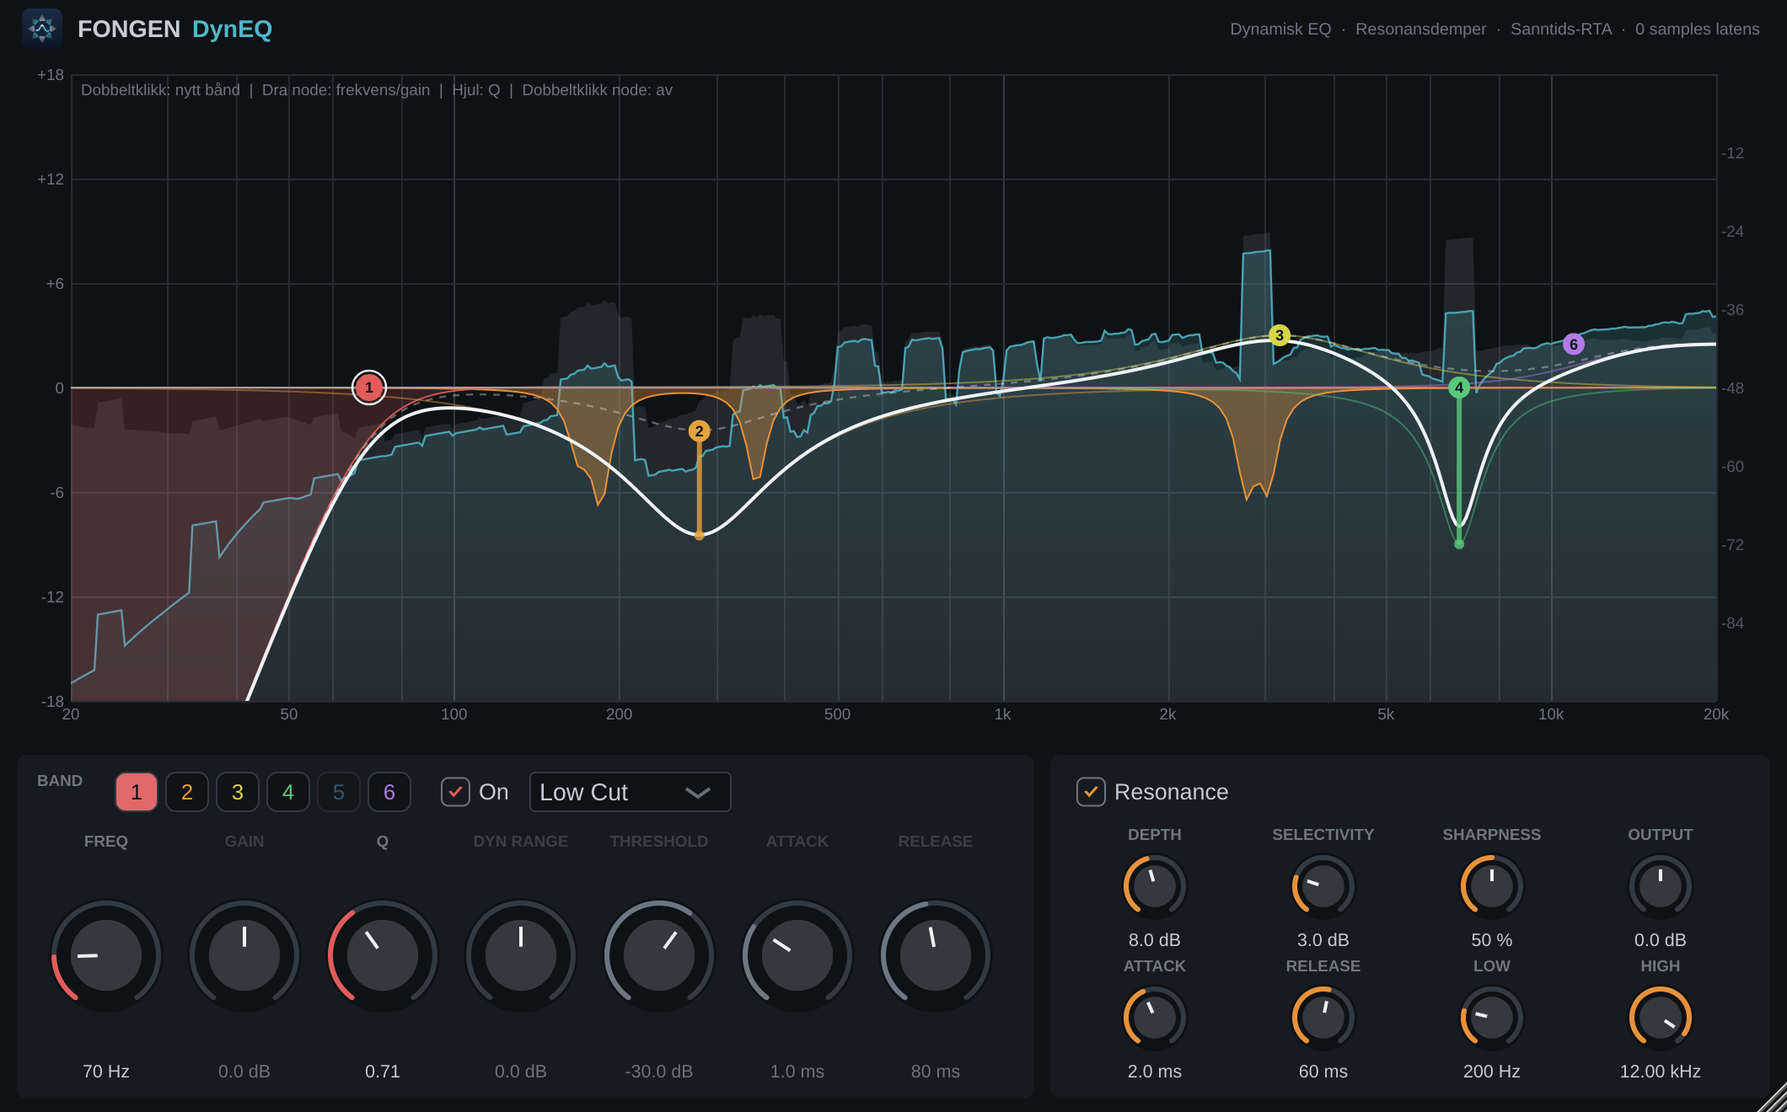
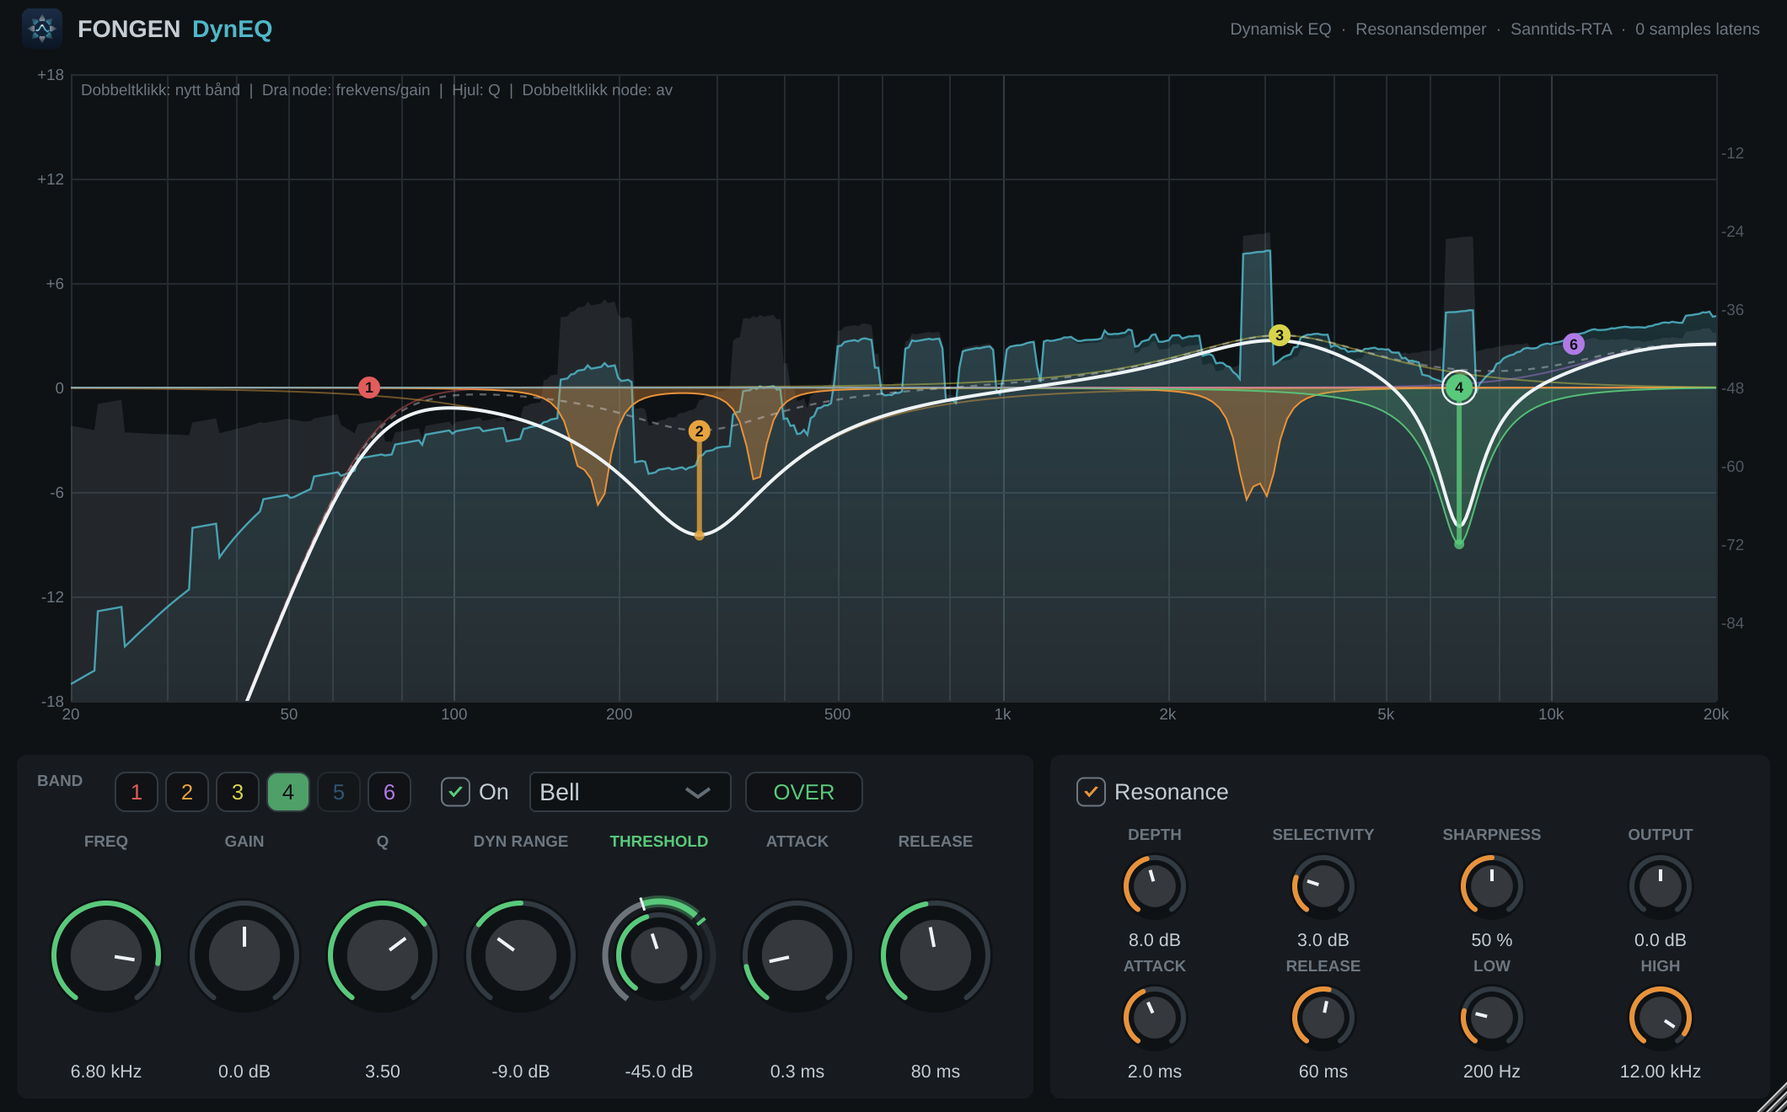
1.1.0: VU-ring rundt Threshold og Over/Under per bånd
- Detektornivået vises som en ring rundt Threshold, med terskelmerke og
  topphold. Delen der båndet reagerer lyser i båndets farge.
- Ny parameter per bånd: Over/Under. Under-modus reagerer når nivået er
  under terskelen (ekspansjon eller løft av svake partier).
- Detektoren kjører nå også for statiske bånd, så nivået kan leses før
  Dyn Range skrus opp.

Claude-Session: https://claude.ai/code/session_0122M8mVV8rMKfPfgbpjHn3K

diff --git a/Source/PluginEditor.cpp b/Source/PluginEditor.cpp
@@ -45,10 +45,59 @@ Label* FongenLookAndFeel::createSliderTextBox (Slider& s)
 void FongenLookAndFeel::drawRotarySlider (Graphics& g, int x, int y, int w, int h, float pos, float start, float end, Slider& s)
 {
     const auto bounds = Rectangle<float> ((float) x, (float) y, (float) w, (float) h).reduced (4);
-    const float r = jmin (bounds.getWidth(), bounds.getHeight()) * 0.5f;
+    const float outer = jmin (bounds.getWidth(), bounds.getHeight()) * 0.5f;
     const auto c = bounds.getCentre();
     const float angle = start + pos * (end - start);
     const auto fill = s.findColour (Slider::rotarySliderFillColourId);
+
+    // VU-ring: settes av editoren som egenskaper på slideren (nivå i samme enhet som slideren)
+    const auto& props = s.getProperties();
+    const bool hasVu = props.contains ("vuDb");
+    const float r = hasVu ? outer - 7.0f : outer;
+
+    if (hasVu)
+    {
+        const float ringR = outer - 2.0f;
+        auto toAngle = [&] (double v) { return start + (float) s.valueToProportionOfLength (jlimit (s.getMinimum(), s.getMaximum(), v)) * (end - start); };
+        const float level = (float) props["vuDb"], peak = (float) props.getWithDefault ("vuPeakDb", -120.0f);
+        const bool active = (bool) props.getWithDefault ("vuActive", true);
+        const bool under  = (bool) props.getWithDefault ("vuUnder", false);
+        const float thrA = angle;
+
+        Path bgRing; bgRing.addCentredArc (c.x, c.y, ringR, ringR, 0, start, end, true);
+        g.setColour (ui::grid);
+        g.strokePath (bgRing, PathStrokeType (3.5f, PathStrokeType::curved, PathStrokeType::butt));
+
+        if (level > s.getMinimum())
+        {
+            const float lvlA = toAngle (level);
+            // Nivået vises dempet. Delen mellom nivå og terskel lyser i båndets farge
+            // når båndet reagerer: over terskel i Over-modus, under terskel i Under-modus.
+            Path lvlArc; lvlArc.addCentredArc (c.x, c.y, ringR, ringR, 0, start, under ? lvlA : jmin (lvlA, thrA), true);
+            g.setColour (ui::text.withAlpha (s.isEnabled() ? 0.45f : 0.2f));
+            g.strokePath (lvlArc, PathStrokeType (3.5f, PathStrokeType::curved, PathStrokeType::butt));
+            const bool hitting = under ? lvlA < thrA : lvlA > thrA;
+            if (hitting)
+            {
+                Path hotArc; hotArc.addCentredArc (c.x, c.y, ringR, ringR, 0, jmin (lvlA, thrA), jmax (lvlA, thrA), true);
+                const auto hot = active ? fill : ui::text;
+                g.setColour (hot.withAlpha (0.35f));
+                g.strokePath (hotArc, PathStrokeType (7.0f, PathStrokeType::curved, PathStrokeType::butt));
+                g.setColour (hot);
+                g.strokePath (hotArc, PathStrokeType (3.5f, PathStrokeType::curved, PathStrokeType::butt));
+            }
+        }
+        if (peak > s.getMinimum())
+        {
+            // Topphold: liten strek på ringen
+            const float pa = toAngle (peak);
+            g.setColour (! under && peak > s.getValue() && active ? fill : ui::text.withAlpha (0.7f));
+            g.drawLine ({ c.getPointOnCircumference (ringR - 3.0f, pa), c.getPointOnCircumference (ringR + 3.0f, pa) }, 2.0f);
+        }
+        // Terskelmerke på ringen
+        g.setColour (ui::curve);
+        g.drawLine ({ c.getPointOnCircumference (ringR - 4.0f, thrA), c.getPointOnCircumference (ringR + 4.0f, thrA) }, 1.5f);
+    }
 
     g.setColour (ui::bg);
     g.fillEllipse (c.x - r, c.y - r, r * 2, r * 2);
@@ -503,6 +552,10 @@ FongenAudioProcessorEditor::FongenAudioProcessorEditor (FongenAudioProcessor& p)
     addAndMakeVisible (bandOn);
     bandType.addItemList ({ "Bell", "Low Shelf", "High Shelf", "Low Cut", "High Cut", "Notch" }, 1);
     addAndMakeVisible (bandType);
+    bandMode.setClickingTogglesState (true);
+    bandMode.setTooltip ("Over: båndet reagerer når nivået går over terskelen. Under: når nivået er under terskelen.");
+    bandMode.onStateChange = [this] { bandMode.setButtonText (bandMode.getToggleState() ? "UNDER" : "OVER"); };
+    addAndMakeVisible (bandMode);
 
     setupKnob (kFreq, "FREQ"); setupKnob (kGain, "GAIN"); setupKnob (kQ, "Q");
     setupKnob (kRange, "DYN RANGE"); setupKnob (kThresh, "THRESHOLD"); setupKnob (kAttack, "ATTACK"); setupKnob (kRelease, "RELEASE");
@@ -533,7 +586,7 @@ FongenAudioProcessorEditor::FongenAudioProcessorEditor (FongenAudioProcessor& p)
     setResizable (true, true);
     setResizeLimits (900, 580, 1800, 1100);
     setSize (1060, 660);
-    startTimerHz (10);
+    startTimerHz (30);
 }
 
 FongenAudioProcessorEditor::~FongenAudioProcessorEditor()
@@ -557,14 +610,17 @@ void FongenAudioProcessorEditor::setupKnob (Knob& k, const String& name)
 void FongenAudioProcessorEditor::selectBand (int b)
 {
     selected = b;
+    vuDisp = vuPeak = -120.0f; vuPeakHold = 0;
     bandButtons[b].setToggleState (true, dontSendNotification);
     display.setSelectedBand (b);
 
     // Koble kontrollene om til det valgte båndets parametere
-    bandOnAtt.reset(); bandTypeAtt.reset();
+    bandOnAtt.reset(); bandTypeAtt.reset(); bandModeAtt.reset();
     for (auto* k : { &kFreq, &kGain, &kQ, &kRange, &kThresh, &kAttack, &kRelease }) k->att.reset();
     bandOnAtt   = std::make_unique<ButtonAttachment> (proc.apvts, ids::band (b, ids::on), bandOn);
     bandTypeAtt = std::make_unique<ComboAttachment>  (proc.apvts, ids::band (b, ids::type), bandType);
+    bandModeAtt = std::make_unique<ButtonAttachment> (proc.apvts, ids::band (b, ids::mode), bandMode);
+    bandMode.setButtonText (bandMode.getToggleState() ? "UNDER" : "OVER");
     kFreq.att    = std::make_unique<SliderAttachment> (proc.apvts, ids::band (b, ids::freq), kFreq.slider);
     kGain.att    = std::make_unique<SliderAttachment> (proc.apvts, ids::band (b, ids::gain), kGain.slider);
     kQ.att       = std::make_unique<SliderAttachment> (proc.apvts, ids::band (b, ids::q), kQ.slider);
@@ -575,6 +631,10 @@ void FongenAudioProcessorEditor::selectBand (int b)
     for (auto* k : { &kFreq, &kGain, &kQ, &kRange, &kThresh, &kAttack, &kRelease })
         k->slider.setColour (Slider::rotarySliderFillColourId, ui::band (b));
     bandOn.setColour (ToggleButton::tickColourId, ui::band (b));
+    bandMode.setColour (TextButton::buttonColourId, ui::bg);
+    bandMode.setColour (TextButton::buttonOnColourId, ui::bg);
+    bandMode.setColour (TextButton::textColourOffId, ui::band (b));
+    bandMode.setColour (TextButton::textColourOnId, ui::band (b));
     timerCallback();
     repaint();
 }
@@ -587,6 +647,28 @@ void FongenAudioProcessorEditor::timerCallback()
     const auto type = (fongen::BandType) (int) proc.apvts.getRawParameterValue (ids::band (selected, ids::type))->load();
     const bool hasGain = type == fongen::BandType::Bell || type == fongen::BandType::LowShelf || type == fongen::BandType::HighShelf;
     for (auto* k : { &kGain, &kRange, &kThresh, &kAttack, &kRelease }) { k->slider.setEnabled (hasGain); k->label.setAlpha (hasGain ? 1.0f : 0.4f); }
+    bandMode.setEnabled (hasGain);
+    bandMode.setAlpha (hasGain ? 1.0f : 0.4f);
+
+    // VU-ring rundt Threshold: rask stigning, fall ca. 20 dB/s, topphold i 1,5 s
+    const bool bandIsOn = proc.apvts.getRawParameterValue (ids::band (selected, ids::on))->load() > 0.5f;
+    const float level = proc.bandLevelDb[(size_t) selected].exchange (-120.0f, std::memory_order_relaxed);
+    const float lvl = (bandIsOn && hasGain) ? level : -120.0f;
+    vuDisp = lvl > vuDisp ? lvl : jmax (lvl, vuDisp - 0.7f);
+    if (vuDisp >= vuPeak) { vuPeak = vuDisp; vuPeakHold = 45; }
+    else if (--vuPeakHold < 0) vuPeak = jmax (vuDisp, vuPeak - 0.7f);
+
+    auto& props = kThresh.slider.getProperties();
+    const bool rangeOn = std::abs (proc.apvts.getRawParameterValue (ids::band (selected, ids::range))->load()) > 0.01f;
+    props.set ("vuDb", vuDisp);
+    props.set ("vuPeakDb", vuPeak);
+    const bool under = bandMode.getToggleState();
+    props.set ("vuActive", rangeOn);
+    props.set ("vuUnder", under);
+    const float thr = (float) kThresh.slider.getValue();
+    const bool hit = rangeOn && (under ? vuDisp < thr : vuDisp > thr);
+    kThresh.label.setColour (Label::textColourId, hit ? ui::band (selected) : ui::dim);
+    kThresh.slider.repaint();
 }
 
 void FongenAudioProcessorEditor::paint (Graphics& g)
@@ -642,6 +724,8 @@ void FongenAudioProcessorEditor::resized()
     row.removeFromLeft (12);
     bandOn.setBounds (row.removeFromLeft (56));
     bandType.setBounds (row.removeFromLeft (120).reduced (0, 2));
+    row.removeFromLeft (8);
+    bandMode.setBounds (row.removeFromLeft (70).reduced (0, 2));
     bp.removeFromTop (8);
     Knob* bandKnobs[] = { &kFreq, &kGain, &kQ, &kRange, &kThresh, &kAttack, &kRelease };
     layoutKnobs (bp, bandKnobs, 7);

diff --git a/Source/PluginProcessor.cpp b/Source/PluginProcessor.cpp
@@ -40,6 +40,7 @@ AudioProcessorValueTreeState::ParameterLayout FongenAudioProcessor::createLayout
                                                                AudioParameterFloatAttributes().withStringFromValueFunction (db)));
         grp->addChild (std::make_unique<AudioParameterFloat>  (pid (ids::thresh), pre + "Threshold", NormalisableRange<float> (-80, 0, 0.1f), -30,
                                                                AudioParameterFloatAttributes().withStringFromValueFunction (db)));
+        grp->addChild (std::make_unique<AudioParameterChoice> (pid (ids::mode), pre + "Mode", StringArray { "Over", "Under" }, 0));
         grp->addChild (std::make_unique<AudioParameterFloat>  (pid (ids::attack), pre + "Attack", logRange (0.1f, 200), 1,
                                                                AudioParameterFloatAttributes().withStringFromValueFunction (ms)));
         grp->addChild (std::make_unique<AudioParameterFloat>  (pid (ids::release), pre + "Release", logRange (5, 2000), 80,
@@ -75,9 +76,9 @@ FongenAudioProcessor::FongenAudioProcessor()
                                        .withOutput ("Output", AudioChannelSet::stereo(), true)),
       apvts (*this, nullptr, "FongenDynEQ", createLayout())
 {
-    const char* names[9] = { ids::on, ids::type, ids::freq, ids::gain, ids::q, ids::range, ids::thresh, ids::attack, ids::release };
+    const char* names[10] = { ids::on, ids::type, ids::freq, ids::gain, ids::q, ids::range, ids::thresh, ids::attack, ids::release, ids::mode };
     for (int b = 0; b < fongen::kNumBands; ++b)
-        for (int i = 0; i < 9; ++i)
+        for (int i = 0; i < 10; ++i)
             bandPtrs[(size_t) b].p[i] = apvts.getRawParameterValue (ids::band (b, names[i]));
 
     const String resIds[8] = { ids::resOn, ids::resDepth, ids::resSelect, ids::resSharp, ids::resAttack, ids::resRelease, ids::resLow, ids::resHigh };
@@ -85,6 +86,7 @@ FongenAudioProcessor::FongenAudioProcessor()
     outputPtr = apvts.getRawParameterValue (ids::output);
 
     for (auto& g : bandGainDb) g.store (0);
+    for (auto& l : bandLevelDb) l.store (-120.0f);
     for (auto& r : resReductionDb) r.store (0);
 }
 
@@ -129,6 +131,7 @@ void FongenAudioProcessor::processBlock (AudioBuffer<float>& buffer, MidiBuffer&
         bp.freq = pp[2]->load(); bp.gainDb = pp[3]->load(); bp.q = pp[4]->load();
         bp.rangeDb = pp[5]->load(); bp.thresholdDb = pp[6]->load();
         bp.attackMs = pp[7]->load(); bp.releaseMs = pp[8]->load();
+        bp.under = pp[9]->load() > 0.5f;
         bands[(size_t) b].setParams (bp);
     }
     {
@@ -171,7 +174,15 @@ void FongenAudioProcessor::processBlock (AudioBuffer<float>& buffer, MidiBuffer&
 
     pushMono (postFifo);
 
-    for (int b = 0; b < fongen::kNumBands; ++b) bandGainDb[(size_t) b].store (bands[(size_t) b].getCurrentGainDb(), std::memory_order_relaxed);
+    for (int b = 0; b < fongen::kNumBands; ++b)
+    {
+        bandGainDb[(size_t) b].store (bands[(size_t) b].getCurrentGainDb(), std::memory_order_relaxed);
+        // Høyeste nivå siden GUI-et sist leste (GUI-et setter verdien tilbake til -120)
+        const float lvl = bands[(size_t) b].getDetectorDb();
+        auto& slot = bandLevelDb[(size_t) b];
+        float prev = slot.load (std::memory_order_relaxed);
+        while (lvl > prev && ! slot.compare_exchange_weak (prev, lvl, std::memory_order_relaxed)) {}
+    }
     for (int b = 0; b < fongen::kNumResBands; ++b) resReductionDb[(size_t) b].store (res.getReductionDb (b), std::memory_order_relaxed);
 }
 

diff --git a/Source/DynEqDsp.h b/Source/DynEqDsp.h
@@ -113,6 +113,7 @@ struct BandParams
     float freq = 1000, gainDb = 0, q = 1;
     float rangeDb = 0;          // dynamisk område: negativ = kutt når signalet går over terskel, positiv = løft
     float thresholdDb = -24;
+    bool  under = false;        // false = reager når signalet går over terskel, true = når det er under
     float attackMs = 1, releaseMs = 80;
 };
 
@@ -200,15 +201,20 @@ public:
         smoothedStatic = p.gainDb + staticCoef * (smoothedStatic - p.gainDb);
         float gainDb = smoothedStatic;
 
-        if (isDynamic())
+        // Detektoren kjører alltid for bell og hyller, slik at nivået kan vises mot terskelen
+        // også før Dyn Range er skrudd opp. Gainen endres bare når båndet er dynamisk.
         {
             float peak = 0;
             for (int c = 0; c < numCh; ++c) peak = std::max (peak, std::abs (det[c].process (x[c], detC)));
             env = peak > env ? peak + attCoef * (env - peak) : peak + relCoef * (env - peak);
-            const float over = fastDb (env) - p.thresholdDb;
+        }
+        if (isDynamic())
+        {
+            const float lvl = fastDb (env);
+            const float over = p.under ? p.thresholdDb - lvl : lvl - p.thresholdDb;
             if (over > 0)
             {
-                // Myk overgang: fullt område nås når signalet er max(6, |range|) dB over terskel
+                // Myk overgang: fullt område nås max(6, |range|) dB forbi terskelen (over eller under)
                 const float span = std::max (6.0f, std::abs (p.rangeDb));
                 const float t = std::min (1.0f, over / span);
                 gainDb += p.rangeDb * t * t * (3.0f - 2.0f * t);   // smoothstep
@@ -247,6 +253,8 @@ public:
     }
 
     float getCurrentGainDb() const noexcept { return currentGainDb; }
+    // Detektornivå i dBFS (samme verdi som sammenlignes med terskelen)
+    float getDetectorDb() const noexcept { return fastDb (env); }
     const BandParams& params() const noexcept { return p; }
 
 private:

diff --git a/Tests/DspTest.cpp b/Tests/DspTest.cpp
@@ -66,9 +66,33 @@ int main()
         check (std::abs (quiet) < 0.1, "Lavt signal (-50 dBFS) passerer uendret", quiet);
         check (off > -2.0, "Høyt signal utenfor båndet (200 Hz) påvirkes lite", off);
 
+        bp.under = true; bp.rangeDb = +6; bp.thresholdDb = -30;
+        const double upQuiet = sineGainDb (bp, 1000, -50);
+        const double upLoud  = sineGainDb (bp, 1000, -6);
+        check (upQuiet > 5.5 && upQuiet < 6.5, "Under-modus: lavt signal (-50 dBFS) løftes +6 dB", upQuiet);
+        check (std::abs (upLoud) < 0.1, "Under-modus: høyt signal (-6 dBFS) passerer uendret", upLoud);
+        bp.under = false;
+
         bp.rangeDb = +6; bp.thresholdDb = -40;
         const double up = sineGainDb (bp, 1000, -10);
         check (up > 5.5 && up < 6.5, "Positiv range løfter når signalet er over terskel", up);
+    }
+
+    std::printf ("\nDetektornivå (vises i VU-ringen rundt Threshold)\n");
+    {
+        for (float range : { 0.0f, -12.0f })
+        {
+            BandParams bp; bp.on = true; bp.freq = 1000; bp.q = 1; bp.rangeDb = range; bp.thresholdDb = -30;
+            DynamicBand band; band.prepare (fs); band.setParams (bp);
+            for (int i = 0; i < (int) fs / 2; ++i)
+            {
+                float x[2]; x[0] = x[1] = 0.5f * (float) std::sin (2 * kPi * 1000 * i / fs);   // -6 dBFS
+                band.processFrame (x, 2);
+            }
+            const double d = band.getDetectorDb();
+            check (std::abs (d + 6.02) < 0.5, range == 0 ? "Sinus -6 dBFS i båndet leses som ca. -6 dB (statisk bånd)"
+                                                          : "Sinus -6 dBFS i båndet leses som ca. -6 dB (dynamisk bånd)", d);
+        }
     }
 
     std::printf ("\nReaksjonstid (attack 0,5 ms): tid fra signalstart til 90 %% av kuttet\n");

diff --git a/Source/PluginProcessor.h b/Source/PluginProcessor.h
@@ -9,7 +9,7 @@ namespace ids
     inline juce::String band (int b, const char* name) { return "b" + juce::String (b + 1) + "_" + name; }
     inline const char* on = "on";  inline const char* type = "type"; inline const char* freq = "freq";
     inline const char* gain = "gain"; inline const char* q = "q"; inline const char* range = "range";
-    inline const char* thresh = "thresh"; inline const char* attack = "attack"; inline const char* release = "release";
+    inline const char* thresh = "thresh"; inline const char* mode = "mode"; inline const char* attack = "attack"; inline const char* release = "release";
 
     inline const juce::String resOn = "res_on", resDepth = "res_depth", resSelect = "res_select",
                               resSharp = "res_sharp", resAttack = "res_attack", resRelease = "res_release",
@@ -78,13 +78,14 @@ public:
     // Til GUI
     AnalyserFifo preFifo, postFifo;
     std::array<std::atomic<float>, fongen::kNumBands> bandGainDb {};
+    std::array<std::atomic<float>, fongen::kNumBands> bandLevelDb {};   // detektornivå, vises rundt Threshold
     std::array<std::atomic<float>, fongen::kNumResBands> resReductionDb {};
     std::atomic<double> currentSampleRate { 48000.0 };
     float getResCentreHz (int b) const noexcept { return res.getCentreHz (b); }
     float getResCutQ() const noexcept { return res.getCutQ(); }
 
 private:
-    struct BandPtrs { std::atomic<float>* p[9]; };
+    struct BandPtrs { std::atomic<float>* p[10]; };
     std::array<BandPtrs, fongen::kNumBands> bandPtrs {};
     std::atomic<float>* resPtrs[8] {};
     std::atomic<float>* outputPtr = nullptr;

diff --git a/Tests/GuiSnapshot.cpp b/Tests/GuiSnapshot.cpp
@@ -23,6 +23,7 @@ int main (int argc, char** argv)
     set ("b4_range", -9); set ("b4_thresh", -45); set ("b4_attack", 0.3f);
     set ("b6_on", 1); set ("b6_type", 2); set ("b6_freq", 11000); set ("b6_gain", 2.5f);
     set ("res_on", 1); set ("res_depth", 8);
+    if (argc > 3 && juce::String (argv[3]) == "under") { set ("b4_mode", 1); set ("b4_thresh", -20); set ("b4_range", 6); }
 
     const double fs = 48000; const int bs = 512;
     proc->setPlayConfigDetails (2, 2, fs, bs);
@@ -50,6 +51,11 @@ int main (int argc, char** argv)
     for (int i = 0; i < 60; ++i) feed();
 
     std::unique_ptr<juce::AudioProcessorEditor> ed (proc->createEditorIfNeeded());
+    // Velg bånd (standard 4, sibilansbåndet) så VU-ringen rundt Threshold vises
+    const juce::String bandToShow = argc > 2 ? argv[2] : "4";
+    for (auto* child : ed->getChildren())
+        if (auto* btn = dynamic_cast<juce::TextButton*> (child))
+            if (btn->getButtonText() == bandToShow) btn->triggerClick();
     for (int i = 0; i < 120; ++i) { feed(); feed(); juce::MessageManager::getInstance()->runDispatchLoopUntil (16); }
     auto img = ed->createComponentSnapshot (ed->getLocalBounds(), true, 2.0f);
     juce::File out (argc > 1 ? argv[1] : "snapshot.png");

diff --git a/Source/PluginEditor.h b/Source/PluginEditor.h
@@ -115,6 +115,8 @@ private:
     juce::TextButton bandButtons[fongen::kNumBands];
     juce::ToggleButton bandOn { "On" };
     juce::ComboBox bandType;
+    juce::TextButton bandMode { "OVER" };
+    std::unique_ptr<ButtonAttachment> bandModeAtt;
     Knob kFreq, kGain, kQ, kRange, kThresh, kAttack, kRelease;
     std::unique_ptr<ButtonAttachment> bandOnAtt;
     std::unique_ptr<ComboAttachment> bandTypeAtt;
@@ -124,6 +126,7 @@ private:
     std::unique_ptr<ButtonAttachment> resOnAtt;
 
     int selected = 0;
+    float vuDisp = -120.0f, vuPeak = -120.0f; int vuPeakHold = 0;
     juce::Rectangle<int> bandPanel, resPanel;
     JUCE_DECLARE_NON_COPYABLE_WITH_LEAK_DETECTOR (FongenAudioProcessorEditor)
 };

diff --git a/README.md b/README.md
@@ -34,8 +34,11 @@ Dynamisk EQ og resonansdemper i VST3-format (og AU på Mac), i samme ånd som Fa
 |---|---|
 | **Freq / Gain / Q** | Vanlig EQ. Gain gjelder bell og hyller. |
 | **Dyn Range** (-24 til +24 dB) | Hvor mye gainen endres når signalet i båndet går over terskel. Negativ = kutt (kompresjon), positiv = løft. 0 = statisk EQ. |
-| **Threshold** (-80 til 0 dBFS) | Nivået i båndet der dynamikken begynner. Fullt utslag nås ca. max(6, \|range\|) dB over terskel. |
+| **Over / Under** | Om båndet reagerer når nivået går **over** terskelen (kompresjon/de-essing, eller løft med positiv range) eller er **under** terskelen (ekspansjon, eller løft av svake partier). |
+| **Threshold** (-80 til 0 dBFS) | Nivået i båndet der dynamikken begynner. Fullt utslag nås ca. max(6, \|range\|) dB forbi terskelen. |
 | **Attack / Release** | Detektorens reaksjonstid (0,1–200 ms / 5–2000 ms). |
+
+**VU-ringen rundt Threshold** viser nivået detektoren faktisk måler i båndet, på samme skala som knappen. Hvit strek er terskelen, og den lille streken er topphold. Delen av ringen der båndet reagerer lyser i båndets farge, og THRESHOLD-teksten lyser når du treffer. Ringen virker også før Dyn Range er skrudd opp, så du kan stille terskelen først.
 
 Detektoren lytter på samme frekvensområde som båndet: båndpass for bell, lavpass for low shelf og høypass for high shelf. Venstre og høyre er linket.
 
